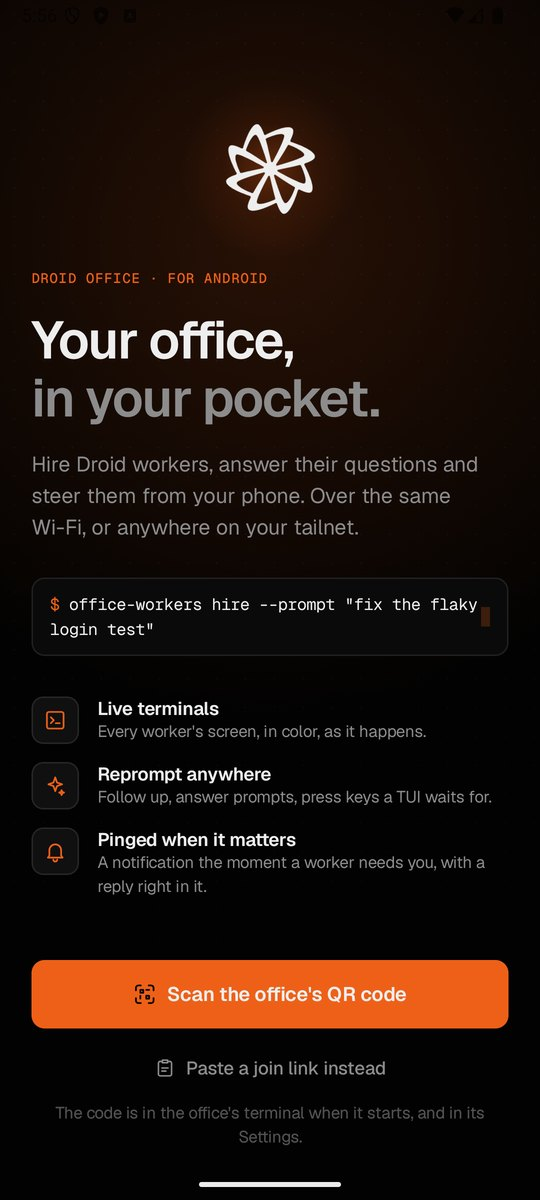
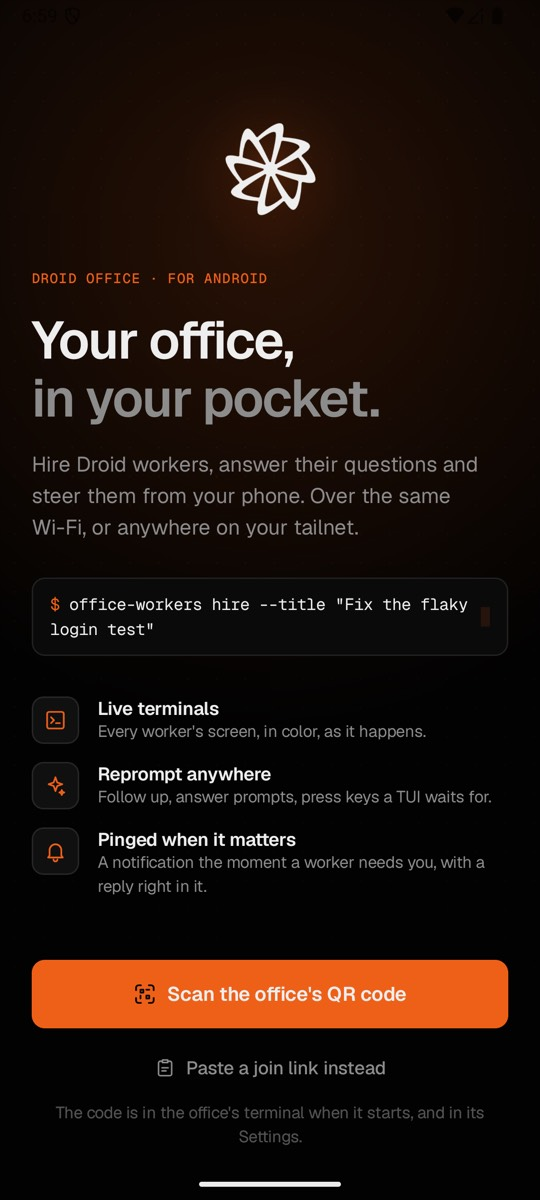
fix: show a real office-workers command on the Android welcome screen

Changed region(s): [[0.4148, 0.0925, 0.5926, 0.185], [0.5037, 0.4933, 0.8889, 0.5242]]

diff --git a/android/app/src/main/java/ai/factory/droidoffice/ui/onboarding/WelcomeScreen.kt b/android/app/src/main/java/ai/factory/droidoffice/ui/onboarding/WelcomeScreen.kt
@@ -149,7 +149,7 @@ private fun Feature(icon: ImageVector, title: String, body: String, index: Int) 
 /** A terminal line typing itself out: what pairing gets you, in the office's own voice. */
 @Composable
 private fun TypedLine() {
-    val full = "\$ office-workers hire --prompt \"fix the flaky login test\""
+    val full = "\$ office-workers hire --title \"Fix the flaky login test\""
     var n by remember { mutableIntStateOf(0) }
     LaunchedEffect(Unit) {
         delay(600)
